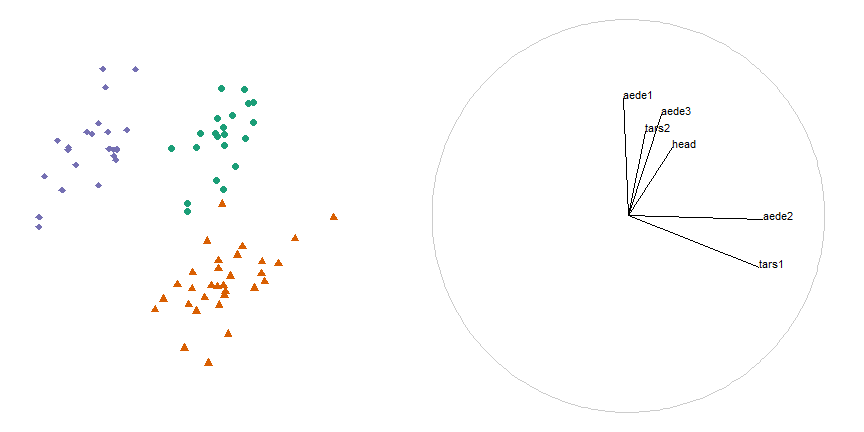
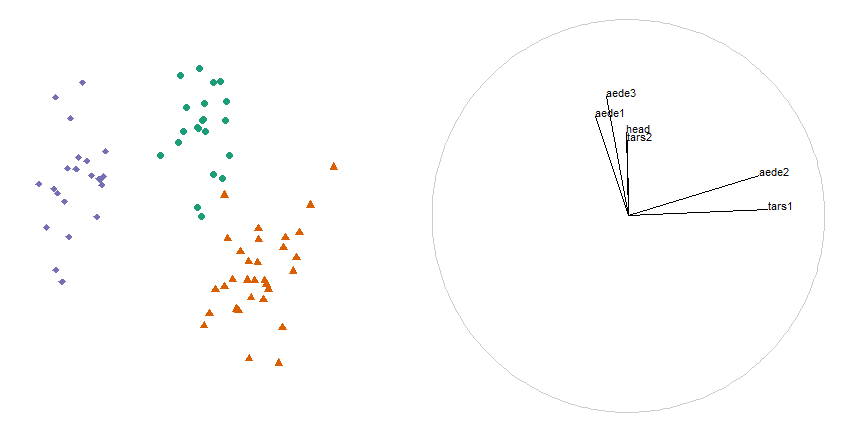
changes after board room run.

diff --git a/slides_ns.html b/slides_ns.html
@@ -149,33 +149,33 @@ Modern VR equipment has improved quality, increased audience, and reduced the co
 &lt;tbody&gt;
   &lt;tr&gt;
    &lt;td style="text-align:left;"&gt; tars1 &lt;/td&gt;
-   &lt;td style="text-align:right;"&gt; 0.6653 &lt;/td&gt;
-   &lt;td style="text-align:right;"&gt; -0.2620 &lt;/td&gt;
+   &lt;td style="text-align:right;"&gt; 0.7145 &lt;/td&gt;
+   &lt;td style="text-align:right;"&gt; 0.0306 &lt;/td&gt;
   &lt;/tr&gt;
   &lt;tr&gt;
    &lt;td style="text-align:left;"&gt; tars2 &lt;/td&gt;
-   &lt;td style="text-align:right;"&gt; 0.0880 &lt;/td&gt;
-   &lt;td style="text-align:right;"&gt; 0.4291 &lt;/td&gt;
+   &lt;td style="text-align:right;"&gt; -0.0053 &lt;/td&gt;
+   &lt;td style="text-align:right;"&gt; 0.3841 &lt;/td&gt;
   &lt;/tr&gt;
   &lt;tr&gt;
    &lt;td style="text-align:left;"&gt; head &lt;/td&gt;
-   &lt;td style="text-align:right;"&gt; 0.2230 &lt;/td&gt;
-   &lt;td style="text-align:right;"&gt; 0.3514 &lt;/td&gt;
+   &lt;td style="text-align:right;"&gt; -0.0103 &lt;/td&gt;
+   &lt;td style="text-align:right;"&gt; 0.4264 &lt;/td&gt;
   &lt;/tr&gt;
   &lt;tr&gt;
    &lt;td style="text-align:left;"&gt; aede1 &lt;/td&gt;
-   &lt;td style="text-align:right;"&gt; -0.0259 &lt;/td&gt;
-   &lt;td style="text-align:right;"&gt; 0.5967 &lt;/td&gt;
+   &lt;td style="text-align:right;"&gt; -0.1674 &lt;/td&gt;
+   &lt;td style="text-align:right;"&gt; 0.5088 &lt;/td&gt;
   &lt;/tr&gt;
   &lt;tr&gt;
    &lt;td style="text-align:left;"&gt; aede2 &lt;/td&gt;
-   &lt;td style="text-align:right;"&gt; 0.6867 &lt;/td&gt;
-   &lt;td style="text-align:right;"&gt; -0.0178 &lt;/td&gt;
+   &lt;td style="text-align:right;"&gt; 0.6701 &lt;/td&gt;
+   &lt;td style="text-align:right;"&gt; 0.2044 &lt;/td&gt;
   &lt;/tr&gt;
   &lt;tr&gt;
    &lt;td style="text-align:left;"&gt; aede3 &lt;/td&gt;
-   &lt;td style="text-align:right;"&gt; 0.1662 &lt;/td&gt;
-   &lt;td style="text-align:right;"&gt; 0.5171 &lt;/td&gt;
+   &lt;td style="text-align:right;"&gt; -0.1107 &lt;/td&gt;
+   &lt;td style="text-align:right;"&gt; 0.6075 &lt;/td&gt;
   &lt;/tr&gt;
 &lt;/tbody&gt;
 &lt;/table&gt;
@@ -249,7 +249,7 @@ Conclusion, PC6 is important in explaining the structural features in the data:
 
 ## RO 2) What benefits does UCS provide over alternatives?
 
-**Future work, method: performance comparison**
+**Future work, method: performance comparison assessed across benchmark datasets**
 
 - Principal Component Analysis (PCA) 
     - A linear transformation that produces linear combinations of the variables in descending order of variation explained
@@ -327,7 +327,7 @@ Design space:
 
 ### 1) A modified UCS algorithm and new implementation applied to contemporary high energy physics and astrophysics applications in 2D animation frameworks.
 ### 2) A performance comparison of static and interactive UCS projection techniques assessed on benchmark data sets from the recent literature.
-### 3) A new algorithm for UCS in 3D. With new applications to multi-dim function visualization in 3D.
+### 3) A new algorithm for UCS in 3D. With new applications to multi-dimensional function visualization in 3D.
 ### 4) Quantitative understanding of the relative benefits of UCS across 2- and 3D display devices.
 
 ---
@@ -358,7 +358,7 @@ Slides -- [github.com/nspyrison/confirmation_talk]( https://github.com/nspyrison
 
 ---
 
-## References (1/2)
+## References (1/3)
 
 *In order of appearance:*
 
@@ -387,8 +387,6 @@ Tory, M., Kirkpatrick, A. E., Atkins, M. S., &amp; Moller, T. (2006). Visualizat
 Gracia, A., González, S., Robles, V., Menasalvas, E., &amp; von Landesberger, T. (2016). New Insights into the Suitability of the Third Dimension for Visualizing Multivariate/Multidimensional Data: A Study Based on Loss of Quality Quantification. Information Visualization, 15(1), 3–30. https://doi.org/10.1177/1473871614556393
 
 Wagner Filho, J., Rey, M., Freitas, C., &amp; Nedel, L. (2018). Immersive Visualization of Abstract Information: An Evaluation on Dimensionally-Reduced Data Scatterplots.
-
-Sedlmair, M., Munzner, T., &amp; Tory, M. (2013). Empirical Guidance on Scatterplot and Dimension Reduction Technique Choices. IEEE Transactions on Visualization &amp; Computer Graphics, (12), 2634–2643.
 
 Cook, D., &amp; Buja, A. (1997). Manual Controls for High-Dimensional Data Projections. Journal of Computational and Graphical Statistics, 6(4), 464–480. https://doi.org/10.2307/1390747
 
